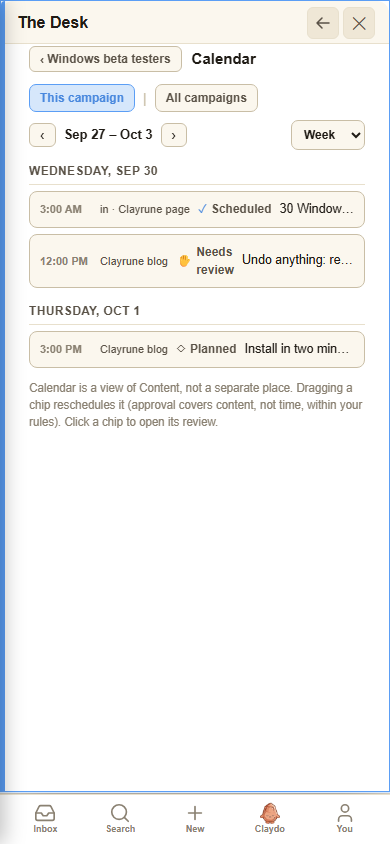
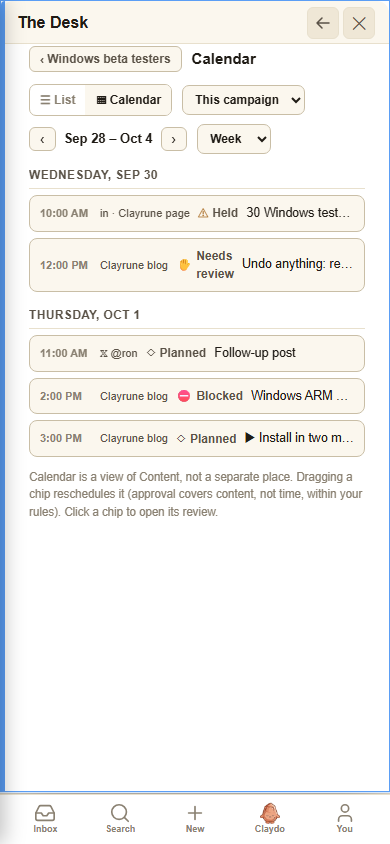
Desk v1 T4: Dave's calendar review fixes (single-row toolbar, badge/state fixes)
Prior session left the calendar module mid-review-response after a context
rollover. This session finished Dave's requested fixes and fixed the one
smoke assertion that was wrong, not the code:

- desk-v1-calendar.js: chip rendering honors the held-channel display
  override and video glyph in both grid and phone-agenda views; toolbar
  collapsed to a single row with a scope <select> (was two rows); rebound
  scope-toggle handler to the new dropdown.
- desk-v1.css: grid-line dashing removed (solid hairlines per frame),
  toolbar laid out as one row, chip line1 coloring, row-header wrap fix
  for long channel labels (`white-space:nowrap` + ellipsis, scoped to the
  calendar rowhead only).
- desk-v1-fixtures.js: corrected timezone-shifted existing fixture times
  and added coverage for the calendar's missing per-version states.
- tools/smoke/desk-v1-calendar.mjs: updated assertions for the dropdown
  scope control and the new fixture states. Fixed the held-badge-wrap
  check, which was asserting boundingClientRect().height < 22px — but a
  genuine single line of this badge (17.25px line-height + 6px padding +
  2px border) is ~25px tall, so the threshold flagged correctly-rendered
  badges as wrapped. Replaced with `getClientRects().length === 1`, the
  actual signal for "did this text wrap".

Screenshots re-captured (default tone, desktop 1440 + phone 390) to match
the single-row toolbar and corrected chip rendering.

diff --git a/static/js/desk-v1-calendar.js b/static/js/desk-v1-calendar.js
@@ -105,9 +105,12 @@
     const count = st.view === 'month'
       ? new Date(st.anchor.getFullYear(), st.anchor.getMonth() + 1, 0).getDate()
       : 7;
+    // Week starts Monday (§3.3 frame 12f: "Mon 29 ... Sun 5") — Sunday's
+    // getDay()===0 needs a 6-day pullback, every other day pulls back
+    // (day - 1) to reach that week's Monday.
     const start = st.view === 'month'
       ? new Date(st.anchor.getFullYear(), st.anchor.getMonth(), 1)
-      : (() => { const d = new Date(st.anchor); d.setDate(d.getDate() - d.getDay()); return d; })();
+      : (() => { const d = new Date(st.anchor); const wd = d.getDay(); d.setDate(d.getDate() - (wd === 0 ? 6 : wd - 1)); return d; })();
     if (typeof window.scalBuildRange === 'function') return window.scalBuildRange([], start, count).days;
     const days = [];
     for (let i = 0; i < count; i++) { const d = new Date(start); d.setDate(d.getDate() + i); days.push({ date: d, items: [] }); }
@@ -196,16 +199,29 @@
     return cells;
   }
 
-  function _chipHTML(item) {
+  // A chip on a HELD channel must read Held regardless of the version's own
+  // state (Dave's review, point 1) — the channel being unreachable overrides
+  // whatever the content's own workflow state is, same "held overrides
+  // either" rule channelCapabilityCopy already applies to the row header.
+  function _effectiveState(item, channel) {
+    return (channel && channel.health === 'held') ? 'held' : item.version.state;
+  }
+
+  function _chipHTML(item, channel) {
     const kit = window.DeskV1Kit;
-    const stateHTML = kit ? kit.stateLabelHTML(item.version.state) : esc(item.version.state);
-    const dashed = item.version.state === 'planned' ? ' desk-v1-cal-chip-dashed' : '';
+    const state = _effectiveState(item, channel);
+    const stateHTML = kit ? kit.stateLabelHTML(state) : esc(state);
+    const dashed = state === 'planned' ? ' desk-v1-cal-chip-dashed' : '';
+    const videoGlyph = item.family.kind === 'video'
+      ? '<span class="desk-v1-cal-chip-video" aria-hidden="true">▶</span> ' : '';
     return `
       <button type="button" class="desk-v1-cal-chip${dashed}" data-chip-version="${esc(item.version.id)}"
-          data-state="${esc(item.version.state)}" title="${esc(item.family.title)}">
-        <span class="desk-v1-cal-chip-time">${esc(_fmtTime(item.when))}</span>
-        ${stateHTML}
-        <span class="desk-v1-cal-chip-title">${esc(item.family.title)}</span>
+          data-state="${esc(state)}" title="${esc(item.family.title)}">
+        <span class="desk-v1-cal-chip-line1">
+          <span class="desk-v1-cal-chip-time">${esc(_fmtTime(item.when))}</span>
+          ${stateHTML}
+        </span>
+        <span class="desk-v1-cal-chip-title">${videoGlyph}${esc(item.family.title)}</span>
       </button>`;
   }
 
@@ -248,7 +264,7 @@
         if (_isWeekend(d.date)) cls.push('desk-v1-cal-cell-weekend');
         return `<div class="${cls.join(' ')}" data-channel-id="${esc(ch.id)}" data-day-key="${esc(key)}">
           <span class="desk-v1-cal-cell-preview"></span>
-          ${items.map(_chipHTML).join('')}
+          ${items.map((it) => _chipHTML(it, ch)).join('')}
         </div>`;
       }).join('');
       return `<div class="desk-v1-cal-row">${_rowHeaderHTML(ch, campaign.rules && campaign.rules.reviewMode)}${cellsHTML}</div>`;
@@ -272,35 +288,53 @@
       const label = new Intl.DateTimeFormat(undefined, { timeZone: _userTz(), weekday: 'long', month: 'short', day: 'numeric' }).format(d.date);
       return `<div class="desk-v1-cal-agenda-day${key === todayKey ? ' desk-v1-cal-agenda-day-today' : ''}">
         <div class="desk-v1-cal-agenda-daylabel">${esc(label)}</div>
-        ${items.map((it) => `
+        ${items.map((it) => {
+          const state = _effectiveState(it, it.channel);
+          const videoGlyph = it.family.kind === 'video' ? '▶ ' : '';
+          return `
           <button type="button" class="desk-v1-cal-agenda-item" data-chip-version="${esc(it.version.id)}">
             <span class="desk-v1-cal-agenda-time">${esc(_fmtTime(it.when))}</span>
             <span class="desk-v1-cal-agenda-channel">${esc(it.channel.label || '')}</span>
-            ${window.DeskV1Kit ? window.DeskV1Kit.stateLabelHTML(it.version.state) : ''}
-            <span class="desk-v1-cal-agenda-title">${esc(it.family.title)}</span>
-          </button>`).join('')}
+            ${window.DeskV1Kit ? window.DeskV1Kit.stateLabelHTML(state) : ''}
+            <span class="desk-v1-cal-agenda-title">${videoGlyph}${esc(it.family.title)}</span>
+          </button>`;
+        }).join('')}
       </div>`;
     }).filter(Boolean).join('');
     return `<div class="desk-v1-cal-agenda">${dayBlocks || '<div class="desk-v1-stub-empty">Nothing on the calendar this range.</div>'}</div>`;
   }
 
+  // §3.3: "This campaign ▾ | All campaigns, ‹ week ›, Week ▾ | Month" — one
+  // row, scope as a single dropdown (not two pills; Dave's review point 6).
+  // The List/Calendar toggle in frame 12f's same row belongs to T2a's
+  // Content-tab slot (this view renders INTO that slot per the T0a contract
+  // — see the file banner comment). T2a doesn't exist yet, so this is a
+  // non-interactive placeholder marking where it goes; T2a's own toggle
+  // replaces it wholesale, nothing here to rewire when it lands.
   function _toolbarHTML(st, days) {
     return `
       <div class="desk-v1-cal-toolbar">
-        <div class="desk-v1-cal-scope">
-          <button type="button" class="desk-v1-cal-pill${st.scope === 'campaign' ? ' on' : ''}" data-cal-scope="campaign">This campaign</button>
-          <span class="desk-v1-cal-sep">|</span>
-          <button type="button" class="desk-v1-cal-pill${st.scope === 'all' ? ' on' : ''}" data-cal-scope="all">All campaigns</button>
+        <div class="desk-v1-cal-toolbar-left">
+          <div class="desk-v1-cal-viewtoggle-placeholder" aria-hidden="true" title="List/Calendar toggle — owned by T2a's Content-tab slot, not built yet">
+            <span class="desk-v1-cal-viewtoggle-btn">&#9776; List</span>
+            <span class="desk-v1-cal-viewtoggle-btn on">&#9638; Calendar</span>
+          </div>
+          <select class="desk-v1-cal-viewselect" data-cal-scope-select>
+            <option value="campaign"${st.scope === 'campaign' ? ' selected' : ''}>This campaign</option>
+            <option value="all"${st.scope === 'all' ? ' selected' : ''}>All campaigns</option>
+          </select>
         </div>
-        <div class="desk-v1-cal-nav">
-          <button type="button" class="desk-v1-cal-navbtn" data-cal-shift="-1" aria-label="Previous">&lsaquo;</button>
-          <span class="desk-v1-cal-rangelabel">${esc(_rangeLabel(days, st.view))}</span>
-          <button type="button" class="desk-v1-cal-navbtn" data-cal-shift="1" aria-label="Next">&rsaquo;</button>
+        <div class="desk-v1-cal-toolbar-right">
+          <div class="desk-v1-cal-nav">
+            <button type="button" class="desk-v1-cal-navbtn" data-cal-shift="-1" aria-label="Previous">&lsaquo;</button>
+            <span class="desk-v1-cal-rangelabel">${esc(_rangeLabel(days, st.view))}</span>
+            <button type="button" class="desk-v1-cal-navbtn" data-cal-shift="1" aria-label="Next">&rsaquo;</button>
+          </div>
+          <select class="desk-v1-cal-viewselect" data-cal-view>
+            <option value="week"${st.view === 'week' ? ' selected' : ''}>Week</option>
+            <option value="month"${st.view === 'month' ? ' selected' : ''}>Month</option>
+          </select>
         </div>
-        <select class="desk-v1-cal-viewselect" data-cal-view>
-          <option value="week"${st.view === 'week' ? ' selected' : ''}>Week</option>
-          <option value="month"${st.view === 'month' ? ' selected' : ''}>Month</option>
-        </select>
       </div>`;
   }
 
@@ -327,7 +361,8 @@
   function _bind(el, campaign, days, rows, cells) {
     const st = _state;
 
-    el.querySelectorAll('[data-cal-scope]').forEach((b) => b.onclick = () => { st.scope = b.dataset.calScope; _render(campaign); });
+    const scopeSel = el.querySelector('[data-cal-scope-select]');
+    if (scopeSel) scopeSel.onchange = () => { st.scope = scopeSel.value; _render(campaign); };
     el.querySelectorAll('[data-cal-shift]').forEach((b) => b.onclick = () => {
       const dir = parseInt(b.dataset.calShift, 10);
       const a = new Date(st.anchor);

diff --git a/static/css/desk-v1.css b/static/css/desk-v1.css
@@ -440,14 +440,15 @@
 .desk-v1-calendar { display: flex; flex-direction: column; gap: 12px; height: 100%; min-height: 0; }
 
 .desk-v1-cal-toolbar { display: flex; align-items: center; justify-content: space-between; gap: 12px; flex-wrap: wrap; flex: 0 0 auto; }
-.desk-v1-cal-scope { display: flex; align-items: center; gap: 8px; }
-.desk-v1-cal-pill {
-  background: var(--surface2); border: 1px solid var(--border2); border-radius: 7px;
-  color: var(--text-dim); font-size: 12px; font-weight: 600; padding: 6px 10px; cursor: pointer;
+.desk-v1-cal-toolbar-left { display: flex; align-items: center; gap: 10px; }
+.desk-v1-cal-toolbar-right { display: flex; align-items: center; gap: 10px; }
+/* T2a placeholder (Dave's review point 6) — visual marker only, not wired;
+   T2a's own List/Calendar toggle replaces this wholesale. */
+.desk-v1-cal-viewtoggle-placeholder {
+  display: inline-flex; align-items: center; border: 1px solid var(--border2); border-radius: 7px; overflow: hidden;
 }
-.desk-v1-cal-pill:hover { background: var(--surface3); }
-.desk-v1-cal-pill.on { background: var(--accent-dim); border-color: var(--accent); color: var(--accent-soft); }
-.desk-v1-cal-sep { color: var(--border2); }
+.desk-v1-cal-viewtoggle-btn { font-size: 12px; font-weight: 600; padding: 6px 10px; color: var(--text-faint); }
+.desk-v1-cal-viewtoggle-btn.on { background: var(--surface2); color: var(--text); }
 .desk-v1-cal-nav { display: flex; align-items: center; gap: 8px; }
 .desk-v1-cal-navbtn {
   background: var(--surface2); border: 1px solid var(--border2); border-radius: 6px;
@@ -481,6 +482,12 @@
 .desk-v1-cal-rowhead-corner { background: var(--surface2); }
 .desk-v1-cal-rowhead-held { background: color-mix(in srgb, var(--amber-text) 10%, var(--surface2)); }
 .desk-v1-cal-row-hold { font-size: 10.5px; color: var(--amber-text); line-height: 1.3; }
+/* Dave's review point 8: the kit's channel badge (static/css/desk-v1.css
+   .desk-v1-channel-badge, shared with every other surface) has no nowrap of
+   its own — fine at full width elsewhere, but the calendar's 150px rowhead
+   column is narrow enough to wrap "in · Clayrune page ⚠" onto two lines.
+   Scoped to this rowhead only, so the shared badge default is untouched. */
+.desk-v1-cal-rowhead .desk-v1-channel-badge { white-space: nowrap; overflow: hidden; text-overflow: ellipsis; max-width: 100%; }
 
 .desk-v1-cal-daycol { padding: 8px 6px; display: flex; align-items: baseline; gap: 6px; justify-content: center; border-right: 1px solid var(--border); }
 .desk-v1-cal-daynum { font-size: 13px; font-weight: 700; color: var(--text); }
@@ -492,7 +499,16 @@
 .desk-v1-cal-cell { position: relative; padding: 6px; display: flex; flex-direction: column; gap: 4px; border-right: 1px solid var(--border); min-height: 64px; }
 .desk-v1-cal-cell-today { background: color-mix(in srgb, var(--accent-dim) 40%, transparent); }
 .desk-v1-cal-cell-weekend:not(.desk-v1-cal-cell-today) { background: color-mix(in srgb, var(--surface2) 60%, transparent); }
-.desk-v1-cal-cell.pd-drop-target { border-radius: 0; }
+/* .pd-drop-target's shared default (T0c, other callers e.g. T1's promote
+   box) is `border: 1px dashed` on all four sides — fine for a standalone
+   drop target, wrong for a grid cell that already carries its own solid
+   hairlines (this rule + the row's border-bottom). Dave's review point 5:
+   every cell read as dashed because only the right/bottom sides were
+   overridden above; reset all four explicitly so none of the shared
+   dashed default survives. Only a Planned CHIP is dashed (data-state
+   driven, below) — the grid itself is solid hairlines throughout. */
+.desk-v1-cal-cell.pd-drop-target { border: none; border-right: 1px solid var(--border); border-radius: 0; }
+.desk-v1-cal-cell.pd-drop-target.pd-drop-hover { border: 1px solid var(--accent); background: var(--accent-dim); }
 .desk-v1-cal-cell-preview:empty { display: none; }
 .desk-v1-cal-cell-preview { font-size: 10.5px; color: var(--accent-soft); font-weight: 600; }
 
@@ -504,8 +520,23 @@
 .desk-v1-cal-chip:hover { background: var(--surface3); }
 .desk-v1-cal-chip:active { cursor: grabbing; }
 .desk-v1-cal-chip-dashed { border-style: dashed; }
-.desk-v1-cal-chip-time { font-size: 10px; color: var(--text-faint); font-weight: 600; }
+/* Dave's review point 7: line 1 is time + state glyph + word together,
+   coloured by state; line 2 is the title. `.desk-v1-cal-chip-line1` inherits
+   the state colour so the glyph and word (kit's own .desk-v1-state-label,
+   normally coloured only on the glyph per A15) read in the same tone as the
+   time, without recolouring the shared kit component's default elsewhere. */
+.desk-v1-cal-chip-line1 { display: flex; align-items: center; gap: 5px; color: var(--text-dim); }
+.desk-v1-cal-chip-line1 .desk-v1-state-label,
+.desk-v1-cal-chip-line1 .desk-v1-state-glyph { color: inherit; }
+.desk-v1-cal-chip[data-state="blocked"] .desk-v1-cal-chip-line1,
+.desk-v1-cal-chip[data-state="failed"] .desk-v1-cal-chip-line1 { color: var(--red-text); }
+.desk-v1-cal-chip[data-state="held"] .desk-v1-cal-chip-line1 { color: var(--amber-text); }
+.desk-v1-cal-chip[data-state="verified_published"] .desk-v1-cal-chip-line1,
+.desk-v1-cal-chip[data-state="approved"] .desk-v1-cal-chip-line1,
+.desk-v1-cal-chip[data-state="scheduled"] .desk-v1-cal-chip-line1 { color: var(--accent-soft); }
+.desk-v1-cal-chip-time { font-size: 10px; font-weight: 600; }
 .desk-v1-cal-chip .desk-v1-state-label { font-size: 10.5px; }
+.desk-v1-cal-chip-video { font-size: 9px; }
 .desk-v1-cal-chip-title {
   font-size: 11.5px; color: var(--text); line-height: 1.3; max-width: 100%;
   overflow: hidden; text-overflow: ellipsis; white-space: nowrap;

diff --git a/static/js/desk-v1-fixtures.js b/static/js/desk-v1-fixtures.js
@@ -71,7 +71,7 @@
       title: 'Install in two minutes',
       versions: [
         { id: 'v-install-x', channelId: 'ch-x-ron', state: 'verified_published', revision: 3,
-          format: '9:16', publishedAt: '2026-09-22T09:00:00Z' },
+          format: '9:16', publishedAt: '2026-09-22T09:00:00-07:00' },
         { id: 'v-install-li', channelId: 'ch-li-page', state: 'needs_review', revision: 3, format: '16:9' },
         { id: 'v-install-blog', channelId: 'ch-blog', state: 'planned', revision: 0 },
       ],
@@ -83,7 +83,7 @@
       title: '30 Windows testers wanted',
       versions: [
         { id: 'v-testers-li', channelId: 'ch-li-page', state: 'scheduled', revision: 1,
-          publishAt: '2026-09-30T10:00:00Z' },
+          publishAt: '2026-09-30T10:00:00-07:00' },
       ],
     },
   ];
@@ -195,9 +195,46 @@
   // date anywhere yet — a soft target time is exactly what the frame's
   // dashed `◇ Planned` chip needs, and adding it here doesn't touch or
   // contradict any existing row.
+  // v-install-li stays deliberately undated (T3's whenISO: null, left as-is)
+  // — MET-01's "never invented" case the harness already asserts. Blocked
+  // and Needs-review are each covered by a different, already-dated version
+  // below, so nothing needs this one to also carry a date.
+  //
+  // Dave's review (2026-09-26) also flagged two of T0a/T3's own timestamps:
+  // 'v-install-x' publishedAt and 'v-testers-li' publishAt were authored
+  // with a bare `Z` (UTC) suffix, so in the host's America/Los_Angeles tz
+  // they displayed as 2:00 AM / 3:00 AM instead of the frame's intended
+  // 9:00 / 10:00 local — fixed in place above to `-07:00` (same instant's
+  // correct local-time authoring, not a new row).
   const CALENDAR_SCHEDULE = {
     'v-install-blog': '2026-10-01T15:00:00-07:00',
+    'v-followup-x': '2026-10-01T11:00:00-07:00',
+    'v-arm-blocked': '2026-10-01T14:00:00-07:00',
   };
+
+  // Two new families, additive (ground rule 3 — this file is not
+  // re-derived; a ticket needing more data adds its own rows). Dave's
+  // review point 3: frame 12f shows all 5 chip states at once (Published,
+  // Planned, Held, Needs review, Blocked); T0a/T3's existing versions cover
+  // Published/Needs review/Planned/Scheduled(->Held via the held channel),
+  // but nothing carries state 'blocked', and the x-ron row had only one
+  // version (Published) — no Planned entry to show a second chip in that
+  // row the way frame 12f's "Follow-up post" does.
+  FAMILIES.push(
+    { id: 'fam-followup-post', campaignId: 'camp-1', kind: 'post',
+      title: 'Follow-up post',
+      versions: [
+        { id: 'v-followup-x', channelId: 'ch-x-ron', state: 'planned', revision: 0 },
+      ] },
+    { id: 'fam-arm-faq', campaignId: 'camp-1', kind: 'article',
+      title: 'Windows ARM support FAQ',
+      versions: [
+        { id: 'v-arm-blocked', channelId: 'ch-blog', state: 'blocked', revision: 1,
+          claims: [
+            { id: 'claim-arm-1', text: 'runs natively on ARM64', source: null, verdict: 'blocked' },
+          ] },
+      ] },
+  );
 
   window.DeskV1Fixtures = {
     campaigns: CAMPAIGNS,
